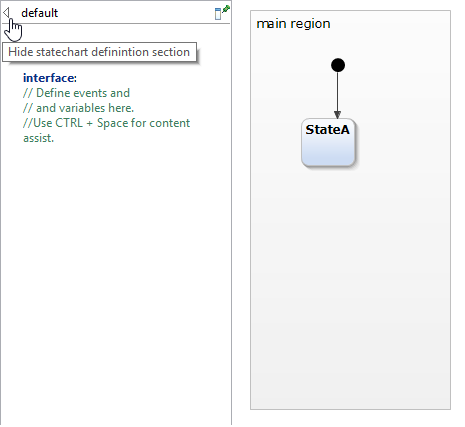
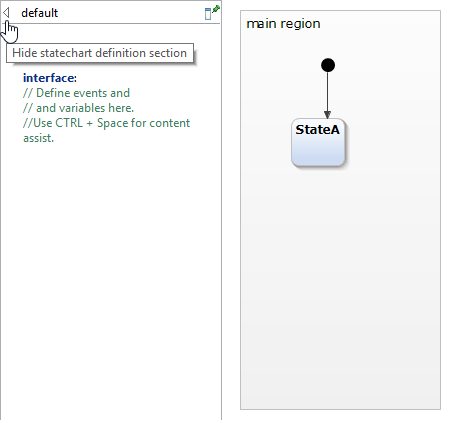
fixed typo in tooltip and correspnding documentation image

Changed region(s): [[0.4336, 0.0, 0.9912, 1.0], [0.0, 0.0, 0.4336, 0.3381], [0.6195, 0.1229, 0.7743, 0.3995]]

diff --git a/plugins/org.yakindu.sct.ui.editor/src/org/yakindu/sct/ui/editor/editor/StatechartDiagramEditor.java b/plugins/org.yakindu.sct.ui.editor/src/org/yakindu/sct/ui/editor/editor/StatechartDiagramEditor.java
@@ -141,7 +141,7 @@ public class StatechartDiagramEditor extends DiagramPartitioningEditor implement
 	protected static final String CANNOT_INLINE_SECTION_TOOLTIP = "Cannot be inlined for subdiagrams";
 	protected static final String INLINE_SECTION_TOOLTIP = "Inline statechart definition section";
 	protected static final String EXPAND_TOOLTIP = "Show statechart definition section";
-	protected static final String COLLAPSE_TOOLTIP = "Hide statechart definintion section";
+	protected static final String COLLAPSE_TOOLTIP = "Hide statechart definition section";
 	protected final Image EXPAND_IMAGE = StatechartImages.EXPAND.image();
 	protected final Image COLLAPSE_IMAGE = StatechartImages.COLLAPSE.image();
 
